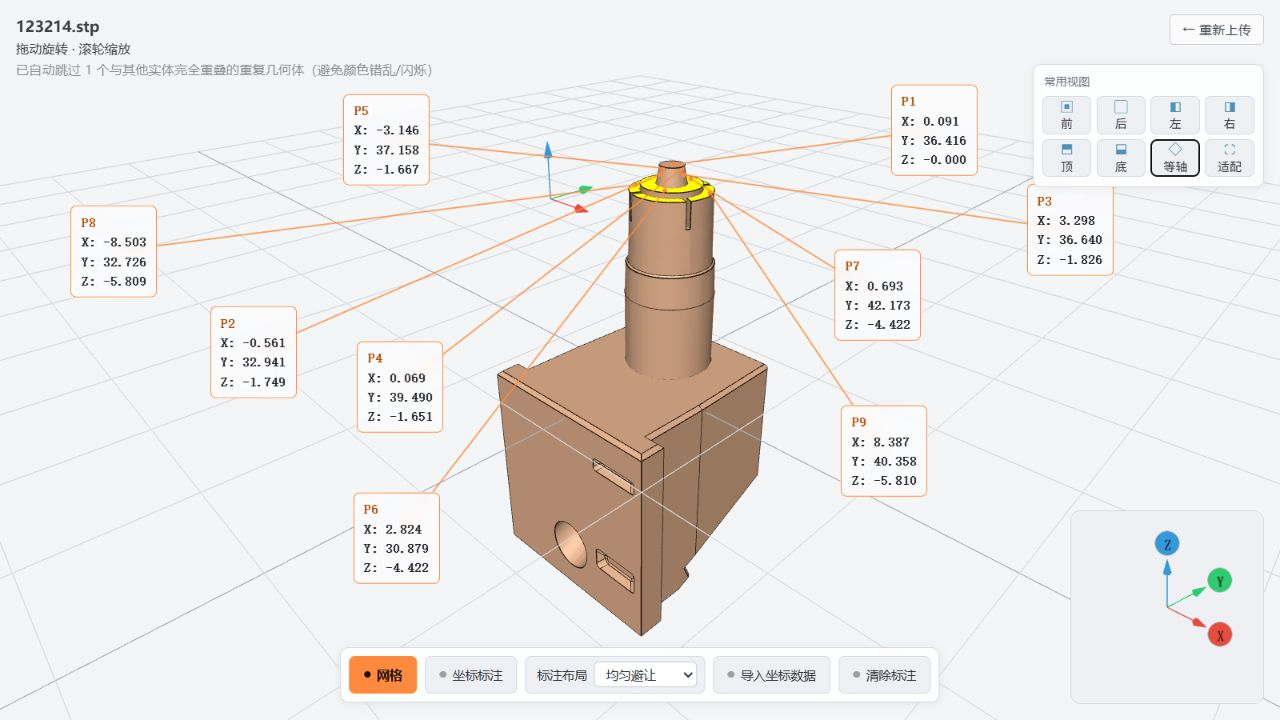
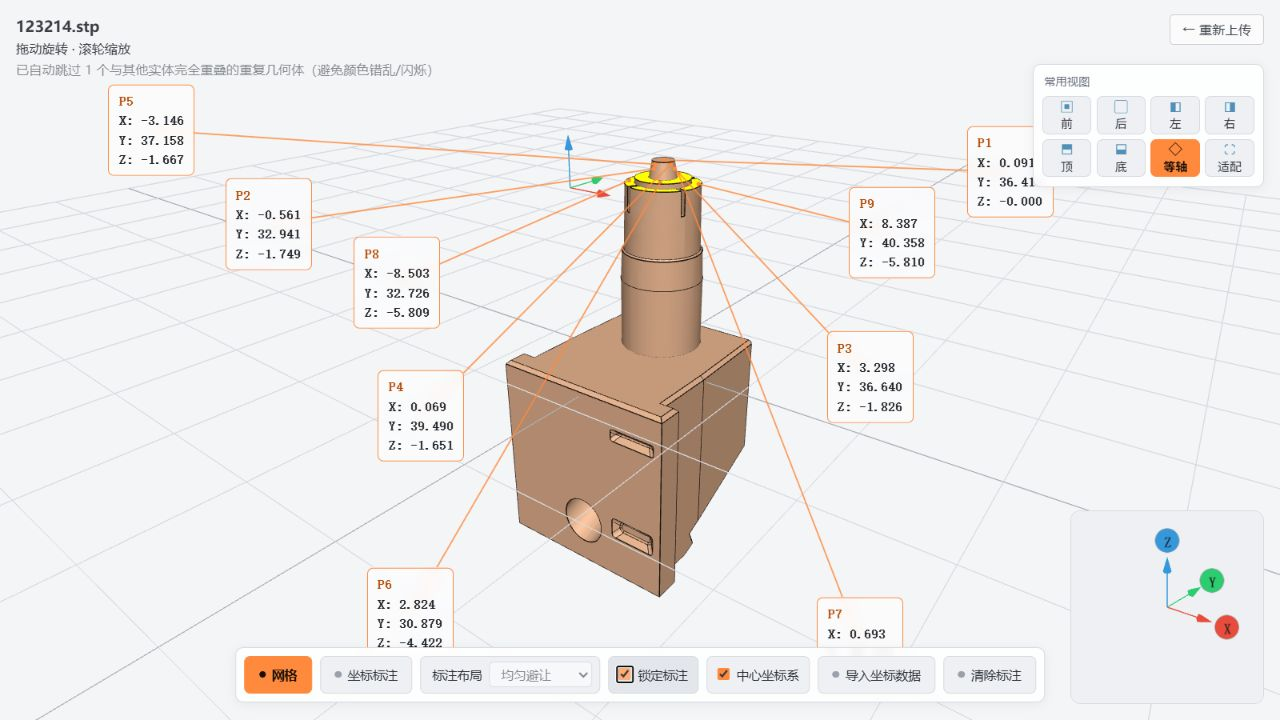
feat: add annotation lock and origin axis toggle

diff --git a/public/viewer.html b/public/viewer.html
@@ -36,13 +36,14 @@
     border: 1px solid #d7dae0; border-radius: 8px;
     padding: 8px; backdrop-filter: blur(4px);
     box-shadow: 0 2px 10px rgba(0,0,0,0.06);
+    z-index: 7;
   }
   .tool-btn {
     font-family: -apple-system, "PingFang SC", "Microsoft YaHei", sans-serif;
     font-size: 12.5px; color: #2a2e35;
     background: #eef0f3; border: 1px solid #d7dae0; border-radius: 6px;
     padding: 8px 14px; cursor: pointer; user-select: none;
-    display: flex; align-items: center; gap: 6px;
+    display: flex; align-items: center; gap: 6px; white-space: nowrap; flex-shrink: 0;
     transition: background .15s, border-color .15s;
   }
   .tool-btn:hover { background: #e3e6ea; }
@@ -50,7 +51,7 @@
   .tool-btn .dot { width: 7px; height: 7px; border-radius: 50%; background: #9aa1ab; }
   .tool-btn.active .dot { background: #1a0e04; }
   .layout-control {
-    display: flex; align-items: center; gap: 7px; white-space: nowrap;
+    display: flex; align-items: center; gap: 7px; white-space: nowrap; flex-shrink: 0;
     font-family: -apple-system, "PingFang SC", "Microsoft YaHei", sans-serif;
     font-size: 12.5px; color: #2a2e35;
     background: #eef0f3; border: 1px solid #d7dae0; border-radius: 6px;
@@ -62,6 +63,16 @@
     padding: 3px 24px 3px 7px; outline: none;
   }
   #annotation-layout-mode:focus { border-color: #ff8a3d; }
+  #annotation-layout-mode:disabled { cursor: not-allowed; opacity: 0.55; }
+  .check-control {
+    display: flex; align-items: center; gap: 6px; white-space: nowrap; flex-shrink: 0;
+    font-family: -apple-system, "PingFang SC", "Microsoft YaHei", sans-serif;
+    font-size: 12.5px; color: #2a2e35;
+    background: #eef0f3; border: 1px solid #d7dae0; border-radius: 6px;
+    padding: 7px 10px; cursor: pointer; user-select: none;
+  }
+  .check-control:hover { background: #e3e6ea; }
+  .check-control input { margin: 0; accent-color: #ff8a3d; cursor: pointer; }
 
   #view-shortcuts {
     position: absolute; top: 64px; right: 16px; z-index: 6;
@@ -181,6 +192,14 @@
       <option value="near">就近布局</option>
       <option value="balanced" selected>均匀避让</option>
     </select>
+  </label>
+  <label class="check-control" title="旋转、平移或缩放视图时保持坐标框位置不变">
+    <input type="checkbox" id="lock-annotation-positions">
+    锁定标注
+  </label>
+  <label class="check-control" title="显示或隐藏模型原点处的坐标系">
+    <input type="checkbox" id="show-origin-marker" checked>
+    中心坐标系
   </label>
   <div class="tool-btn" id="btn-import"><span class="dot"></span>导入坐标数据</div>
   <div class="tool-btn" id="btn-clear-annotate"><span class="dot"></span>清除标注</div>
@@ -574,16 +593,23 @@ function addOriginMarker(group) {
 // 表面，实时算出该点在原始 STEP/OBJ 坐标系下的精确 XYZ 坐标并标注出来，
 // 效果上也是"在模型上展示坐标"，只是数值来自你点的位置，而不是文件里
 // 预置的公差数据。
-function setupToolbar({ scene, camera, renderer, group, grid }) {
+function setupToolbar({ scene, camera, renderer, group, grid, originMarker }) {
   const btnGrid = document.getElementById('btn-grid');
   const btnAnnotate = document.getElementById('btn-annotate');
   const btnClear = document.getElementById('btn-clear-annotate');
+  const lockAnnotationInput = document.getElementById('lock-annotation-positions');
+  const showOriginMarkerInput = document.getElementById('show-origin-marker');
   const coordTip = document.getElementById('coord-tip');
 
   // ---- 网格显示/隐藏 ----
   btnGrid.addEventListener('click', () => {
     grid.visible = !grid.visible;
     btnGrid.classList.toggle('active', grid.visible);
+  });
+
+  // 模型原点处的坐标系与右下角视角坐标轴相互独立，只控制中间这一组。
+  showOriginMarkerInput.addEventListener('change', () => {
+    originMarker.visible = showOriginMarkerInput.checked;
   });
 
   // ---- 导入坐标数据 ----
@@ -653,6 +679,8 @@ function setupToolbar({ scene, camera, renderer, group, grid }) {
   const layoutModeSelect = document.getElementById('annotation-layout-mode');
   const svgNS = 'http://www.w3.org/2000/svg';
   const annotationList = []; // { worldPoint, dot(3D mesh), labelEl, lineEl }
+  let annotationPositionsLocked = false;
+  let annotationLayoutDirty = false;
 
   const LABEL_OFFSET_DIST = 90; // 标签相对标记点的屏幕像素偏移距离
   // 模型本身不会移动，缓存世界坐标包围盒；相机旋转/缩放时只需重新投影
@@ -702,7 +730,11 @@ function setupToolbar({ scene, camera, renderer, group, grid }) {
     lineEl.setAttribute('stroke-opacity', '0.8');
     leaderSvg.appendChild(lineEl);
 
-    annotationList.push({ worldPoint: worldPoint.clone(), dot, labelEl, lineEl, fanIndex: annotationList.length });
+    annotationList.push({
+      worldPoint: worldPoint.clone(), dot, labelEl, lineEl,
+      fanIndex: annotationList.length, lockedLabelX: null, lockedLabelY: null
+    });
+    annotationLayoutDirty = true;
   }
 
   // 导入坐标数据（局部/文件坐标系）时用这个：先转换成世界坐标再复用同一套
@@ -721,7 +753,34 @@ function setupToolbar({ scene, camera, renderer, group, grid }) {
       a.lineEl.remove();
     });
     annotationList.length = 0;
+    annotationLayoutDirty = false;
   }
+
+  lockAnnotationInput.addEventListener('change', () => {
+    annotationPositionsLocked = lockAnnotationInput.checked;
+    layoutModeSelect.disabled = annotationPositionsLocked;
+
+    if (annotationPositionsLocked) {
+      // 以勾选瞬间的屏幕位置为锁定位置。此后相机仍可旋转、平移和缩放，
+      // 坐标框保持不动，只让直线的测点端继续跟随三维位置。
+      annotationLayoutDirty = false;
+      annotationList.forEach(a => {
+        const x = parseFloat(a.labelEl.style.left);
+        const y = parseFloat(a.labelEl.style.top);
+        if (Number.isFinite(x) && Number.isFinite(y)) {
+          a.lockedLabelX = x;
+          a.lockedLabelY = y;
+        } else {
+          annotationLayoutDirty = true;
+        }
+      });
+    } else {
+      annotationList.forEach(a => {
+        a.lockedLabelX = null;
+        a.lockedLabelY = null;
+      });
+    }
+  });
 
   // 每帧把 3D 坐标投影到屏幕像素坐标，标签沿"画布中心 -> 标记点"的方向
   // 再往外偏移一段固定像素距离——这样标签会自然地被推向画面空白处，
@@ -748,6 +807,22 @@ function setupToolbar({ scene, camera, renderer, group, grid }) {
       a.lineEl.style.display = 'block';
       visible.push({ a, sx: (tmp.x * 0.5 + 0.5) * w, sy: (-tmp.y * 0.5 + 0.5) * h });
     });
+
+    // 锁定后跳过布局计算，仅更新测点的屏幕投影和直线起点。
+    // 新增标注时会临时执行一次完整布局，再把新位置一并锁住。
+    if (annotationPositionsLocked && !annotationLayoutDirty) {
+      visible.forEach(v => {
+        const lx = v.a.lockedLabelX;
+        const ly = v.a.lockedLabelY;
+        v.a.labelEl.style.left = lx + 'px';
+        v.a.labelEl.style.top = ly + 'px';
+        v.a.lineEl.setAttribute('x1', v.sx);
+        v.a.lineEl.setAttribute('y1', v.sy);
+        v.a.lineEl.setAttribute('x2', lx);
+        v.a.lineEl.setAttribute('y2', ly);
+      });
+      return;
+    }
 
     // 把模型世界包围盒投影成屏幕矩形。标签布局会把这个矩形视为禁入区，
     // 因而在视角变化时仍会尽量待在实体外侧。
@@ -1211,7 +1286,12 @@ function setupToolbar({ scene, camera, renderer, group, grid }) {
       p.v.a.lineEl.setAttribute('y1', p.v.sy);
       p.v.a.lineEl.setAttribute('x2', p.lx);
       p.v.a.lineEl.setAttribute('y2', p.ly);
+      if (annotationPositionsLocked) {
+        p.v.a.lockedLabelX = p.lx;
+        p.v.a.lockedLabelY = p.ly;
+      }
     });
+    annotationLayoutDirty = false;
   }
 
   btnAnnotate.addEventListener('click', () => {
@@ -1401,8 +1481,8 @@ function renderObj(parsed) {
 
   scene.add(group);
   const controlsState = fitCameraAndControls(scene, camera, renderer, group);
-  addOriginMarker(group);
-  const toolbarState = setupToolbar({ scene, camera, renderer, group, grid: controlsState.grid });
+  const originMarker = addOriginMarker(group);
+  const toolbarState = setupToolbar({ scene, camera, renderer, group, grid: controlsState.grid, originMarker });
   setupViewShortcuts({ camera, group, controlsState });
   const renderGizmo = setupAxisGizmo(camera, group);
   loadingEl.style.display = 'none';
@@ -1608,8 +1688,8 @@ function renderStep(result) {
 
   scene.add(group);
   const controlsState = fitCameraAndControls(scene, camera, renderer, group);
-  addOriginMarker(group);
-  const toolbarState = setupToolbar({ scene, camera, renderer, group, grid: controlsState.grid });
+  const originMarker = addOriginMarker(group);
+  const toolbarState = setupToolbar({ scene, camera, renderer, group, grid: controlsState.grid, originMarker });
   setupViewShortcuts({ camera, group, controlsState });
   const renderGizmo = setupAxisGizmo(camera, group);
   loadingEl.style.display = 'none';
